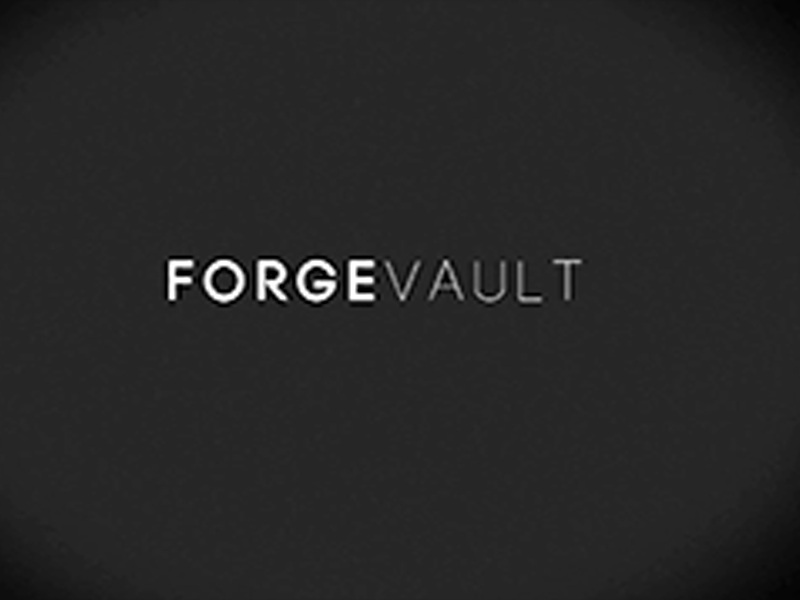
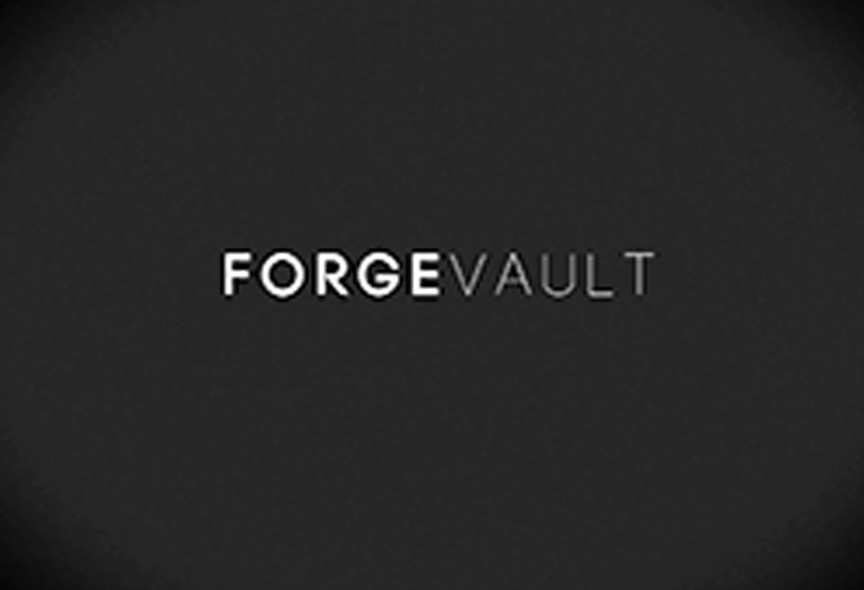
What is going on?!

Changed region(s): [[0.1875, 0.4271, 0.75, 0.5186]]

diff --git a/index.html b/index.html
@@ -176,7 +176,7 @@
 	                    <div class="project">
 	                        <div class="photo-wrapper">
 	                            <div class="photo">
-	                            	<a class="fancybox" href="assets/img/portfolio/port04.jpg"><img class="img-responsive" src="assets/img/portfolio/port04.jpg" alt="Blasdfhx"></a>
+	                            	<a class="fancybox" href="assets/img/portfolio/port03.jpg"><img class="img-responsive" src="assets/img/portfolio/port03.jpg" alt="Forge Vault Splash"></a>
 	                            </div>
 	                            <div class="overlay"></div>
 	                        </div>
